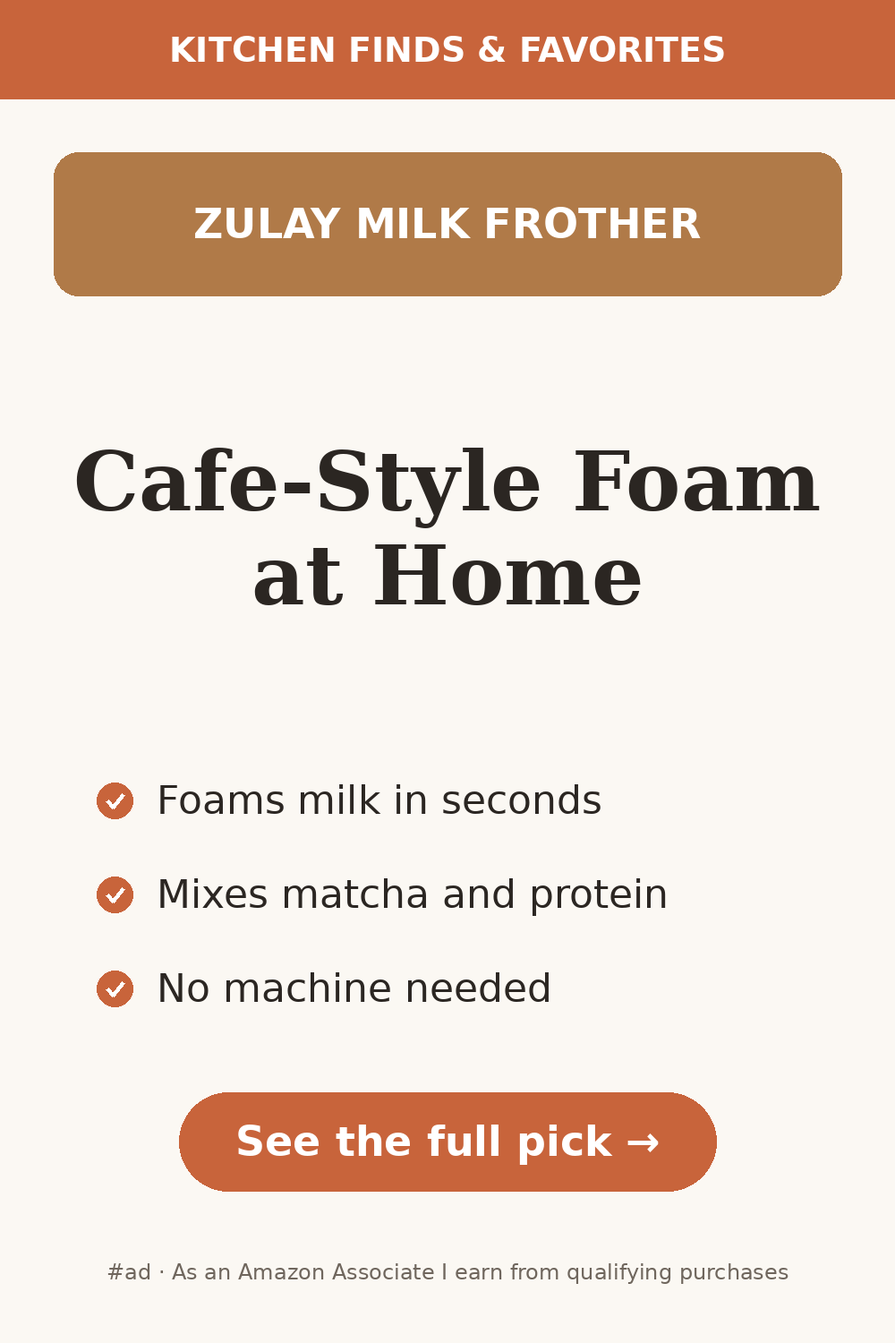
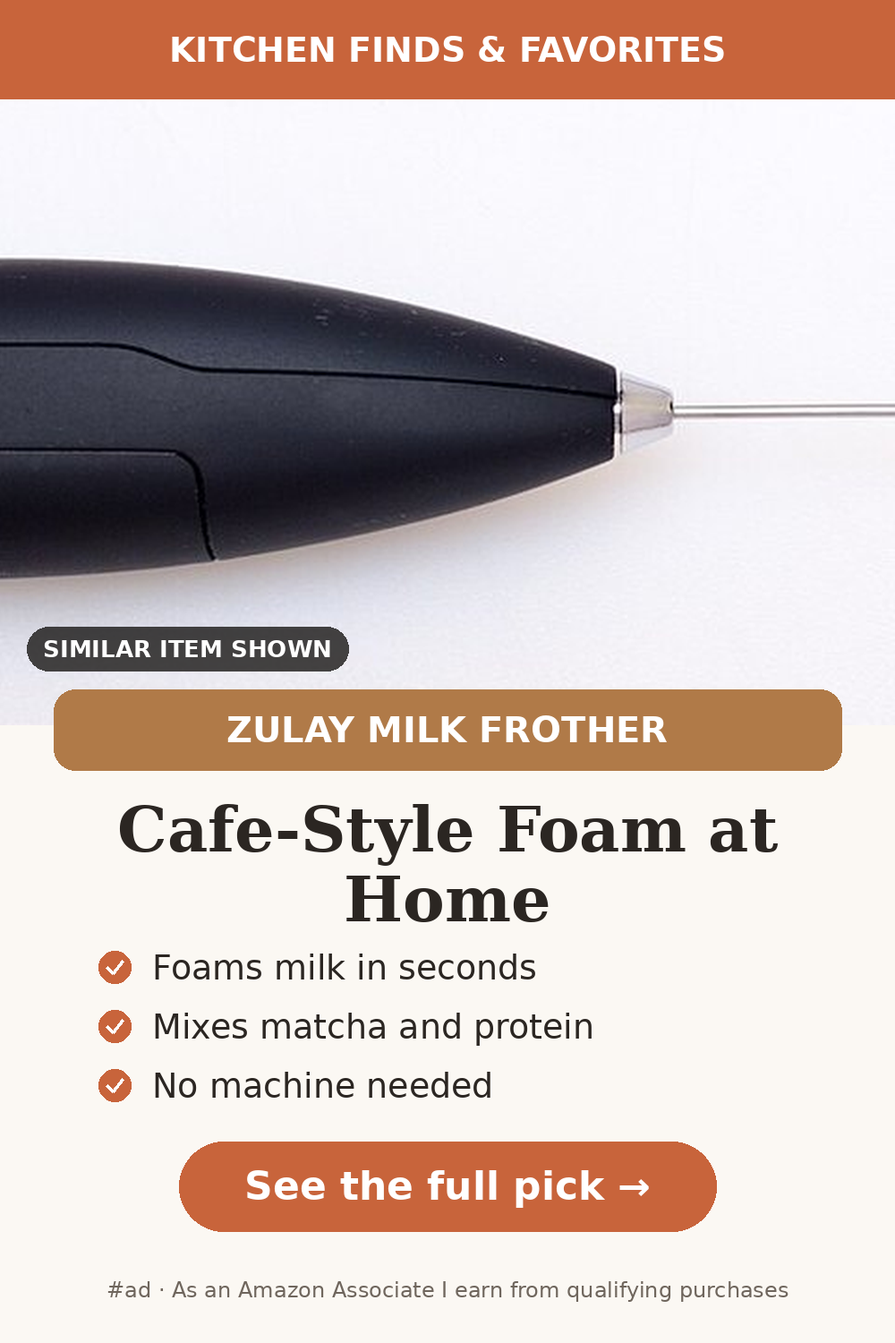
Product photos: first 5 live, plus a GitHub workflow to fetch the rest (#35)
* Fetch similar-item photos on GitHub's servers (Openverse fallback)

Photos were only fetched on Frank's PC (Pixabay key), so most products still
had none. stock_photos.py --openverse now falls back to Openverse public-
domain photos (CC0 / Public Domain Mark only; no key, no attribution needed,
credited anyway) when no Pixabay key is present, trying up to 5 candidates
per product if a download fails. New "Fetch product photos" workflow runs it
on GitHub (open internet), rebuilds, and commits the photos back; on main it
opens a PR. Captions credit the actual source and license. Knife organizers
get their own photo type instead of "kitchen knife".

Claude-Session: https://claude.ai/code/session_013Z8sgWpeXJjzgrsHKLojtB

* Add similar-item photos for products that had none

* Photos: use Wikimedia Commons public-domain images (Openverse now needs an account)

The first workflow run got HTTP 401 from Openverse, which no longer allows
anonymous API use. Switch the keyless fallback to the Wikimedia Commons API,
keeping only public-domain / CC0 JPEG photos at least 800 px wide whose title
or description names the product type, and skipping illustrations, logos,
patents and the like. Remove the empty photos.json that run committed, and
don't commit one again when nothing was found.

Claude-Session: https://claude.ai/code/session_013Z8sgWpeXJjzgrsHKLojtB

* Add similar-item photos for products that had none
[…]

diff --git a/site/public/index.html b/site/public/index.html
@@ -481,7 +481,7 @@ try{navigator.sendBeacon('/click.php',new URLSearchParams({p:location.pathname,a
       </article>
       <article class="card" id="B07SRV3SN8" data-pl="card">
         <a class="img" href="https://www.amazon.com/dp/B07SRV3SN8?tag=kitchenfi0fde-20" rel="sponsored nofollow noopener" target="_blank">
-          <picture><source srcset="img/B07SRV3SN8-sq.webp" type="image/webp"><img src="img/B07SRV3SN8-sq.png" alt="Pipishell Bamboo Expandable Silverware Drawer Organizer" loading="lazy" width="800" height="800"></picture>
+          <picture><source srcset="img/B07SRV3SN8-sq.webp" type="image/webp"><img src="img/B07SRV3SN8-sq.png" alt="Pipishell Bamboo Expandable Silverware Drawer Organizer (photo shows a similar silverware organizer, not this exact product)" loading="lazy" width="800" height="800"></picture>
         </a>
         <div class="body">
           <h3><a href="picks/pipishell-bamboo-expandable-silverware-drawer-organizer/">Pipishell Bamboo Expandable Silverware Drawer Organizer</a></h3>
@@ -492,7 +492,7 @@ try{navigator.sendBeacon('/click.php',new URLSearchParams({p:location.pathname,a
       </article>
       <article class="card" id="B08KXKVT4K" data-pl="card">
         <a class="img" href="https://www.amazon.com/dp/B08KXKVT4K?tag=kitchenfi0fde-20" rel="sponsored nofollow noopener" target="_blank">
-          <picture><source srcset="img/B08KXKVT4K-sq.webp" type="image/webp"><img src="img/B08KXKVT4K-sq.png" alt="Vtopmart 25-Piece Clear Drawer Organizer Set" loading="lazy" width="800" height="800"></picture>
+          <picture><source srcset="img/B08KXKVT4K-sq.webp" type="image/webp"><img src="img/B08KXKVT4K-sq.png" alt="Vtopmart 25-Piece Clear Drawer Organizer Set (photo shows a similar drawer organizer, not this exact product)" loading="lazy" width="800" height="800"></picture>
         </a>
         <div class="body">
           <h3><a href="picks/vtopmart-25-piece-clear-drawer-organizer-set/">Vtopmart 25-Piece Clear Drawer Organizer Set</a></h3>
@@ -651,7 +651,7 @@ try{navigator.sendBeacon('/click.php',new URLSearchParams({p:location.pathname,a
       </article>
       <article class="card" id="B082314NFL" data-pl="card">
         <a class="img" href="https://www.amazon.com/dp/B082314NFL?tag=kitchenfi0fde-20" rel="sponsored nofollow noopener" target="_blank">
-          <picture><source srcset="img/B082314NFL-sq.webp" type="image/webp"><img src="img/B082314NFL-sq.png" alt="Zulay Kitchen Handheld Milk Frother" loading="lazy" width="800" height="800"></picture>
+          <picture><source srcset="img/B082314NFL-sq.webp" type="image/webp"><img src="img/B082314NFL-sq.png" alt="Zulay Kitchen Handheld Milk Frother (photo shows a similar milk frother, not this exact product)" loading="lazy" width="800" height="800"></picture>
         </a>
         <div class="body">
           <h3><a href="picks/zulay-kitchen-handheld-milk-frother/">Zulay Kitchen Handheld Milk Frother</a></h3>
@@ -673,7 +673,7 @@ try{navigator.sendBeacon('/click.php',new URLSearchParams({p:location.pathname,a
       </article>
       <article class="card" id="B00S93EQUK" data-pl="card">
         <a class="img" href="https://www.amazon.com/dp/B00S93EQUK?tag=kitchenfi0fde-20" rel="sponsored nofollow noopener" target="_blank">
-          <picture><source srcset="img/B00S93EQUK-sq.webp" type="image/webp"><img src="img/B00S93EQUK-sq.png" alt="Alpha Grillers Instant Read Meat Thermometer" loading="lazy" width="800" height="800"></picture>
+          <picture><source srcset="img/B00S93EQUK-sq.webp" type="image/webp"><img src="img/B00S93EQUK-sq.png" alt="Alpha Grillers Instant Read Meat Thermometer (photo shows a similar thermometer, not this exact product)" loading="lazy" width="800" height="800"></picture>
         </a>
         <div class="body">
           <h3><a href="picks/alpha-grillers-instant-read-meat-thermometer/">Alpha Grillers Instant Read Meat Thermometer</a></h3>
@@ -695,7 +695,7 @@ try{navigator.sendBeacon('/click.php',new URLSearchParams({p:location.pathname,a
       </article>
       <article class="card" id="B0C3H9MJQV" data-pl="card">
         <a class="img" href="https://www.amazon.com/dp/B0C3H9MJQV?tag=kitchenfi0fde-20" rel="sponsored nofollow noopener" target="_blank">
-          <picture><source srcset="img/B0C3H9MJQV-sq.webp" type="image/webp"><img src="img/B0C3H9MJQV-sq.png" alt="HuggieGems Magnetic Spice Rack, 4-Pack" loading="lazy" width="800" height="800"></picture>
+          <picture><source srcset="img/B0C3H9MJQV-sq.webp" type="image/webp"><img src="img/B0C3H9MJQV-sq.png" alt="HuggieGems Magnetic Spice Rack, 4-Pack (photo shows a similar spice rack, not this exact product)" loading="lazy" width="800" height="800"></picture>
         </a>
         <div class="body">
           <h3><a href="picks/huggiegems-magnetic-spice-rack-4-pack/">HuggieGems Magnetic Spice Rack, 4-Pack</a></h3>

diff --git a/site/public/kitchen-gadgets/index.html b/site/public/kitchen-gadgets/index.html
@@ -346,7 +346,7 @@ try{navigator.sendBeacon('/click.php',new URLSearchParams({p:location.pathname,a
       </article>
       <article class="card" id="B082314NFL" data-pl="card">
         <a class="img" href="https://www.amazon.com/dp/B082314NFL?tag=kitchenfi0fde-20" rel="sponsored nofollow noopener" target="_blank">
-          <picture><source srcset="/img/B082314NFL-sq.webp" type="image/webp"><img src="/img/B082314NFL-sq.png" alt="Zulay Kitchen Handheld Milk Frother" loading="lazy" width="800" height="800"></picture>
+          <picture><source srcset="/img/B082314NFL-sq.webp" type="image/webp"><img src="/img/B082314NFL-sq.png" alt="Zulay Kitchen Handheld Milk Frother (photo shows a similar milk frother, not this exact product)" loading="lazy" width="800" height="800"></picture>
         </a>
         <div class="body">
           <h3><a href="/picks/zulay-kitchen-handheld-milk-frother/">Zulay Kitchen Handheld Milk Frother</a></h3>
@@ -368,7 +368,7 @@ try{navigator.sendBeacon('/click.php',new URLSearchParams({p:location.pathname,a
       </article>
       <article class="card" id="B00S93EQUK" data-pl="card">
         <a class="img" href="https://www.amazon.com/dp/B00S93EQUK?tag=kitchenfi0fde-20" rel="sponsored nofollow noopener" target="_blank">
-          <picture><source srcset="/img/B00S93EQUK-sq.webp" type="image/webp"><img src="/img/B00S93EQUK-sq.png" alt="Alpha Grillers Instant Read Meat Thermometer" loading="lazy" width="800" height="800"></picture>
+          <picture><source srcset="/img/B00S93EQUK-sq.webp" type="image/webp"><img src="/img/B00S93EQUK-sq.png" alt="Alpha Grillers Instant Read Meat Thermometer (photo shows a similar thermometer, not this exact product)" loading="lazy" width="800" height="800"></picture>
         </a>
         <div class="body">
           <h3><a href="/picks/alpha-grillers-instant-read-meat-thermometer/">Alpha Grillers Instant Read Meat Thermometer</a></h3>
@@ -390,7 +390,7 @@ try{navigator.sendBeacon('/click.php',new URLSearchParams({p:location.pathname,a
       </article>
       <article class="card" id="B0C3H9MJQV" data-pl="card">
         <a class="img" href="https://www.amazon.com/dp/B0C3H9MJQV?tag=kitchenfi0fde-20" rel="sponsored nofollow noopener" target="_blank">
-          <picture><source srcset="/img/B0C3H9MJQV-sq.webp" type="image/webp"><img src="/img/B0C3H9MJQV-sq.png" alt="HuggieGems Magnetic Spice Rack, 4-Pack" loading="lazy" width="800" height="800"></picture>
+          <picture><source srcset="/img/B0C3H9MJQV-sq.webp" type="image/webp"><img src="/img/B0C3H9MJQV-sq.png" alt="HuggieGems Magnetic Spice Rack, 4-Pack (photo shows a similar spice rack, not this exact product)" loading="lazy" width="800" height="800"></picture>
         </a>
         <div class="body">
           <h3><a href="/picks/huggiegems-magnetic-spice-rack-4-pack/">HuggieGems Magnetic Spice Rack, 4-Pack</a></h3>

diff --git a/site/public/gifts/stocking-stuffers-for-cooks/index.html b/site/public/gifts/stocking-stuffers-for-cooks/index.html
@@ -187,7 +187,7 @@ try{navigator.sendBeacon('/click.php',new URLSearchParams({p:location.pathname,a
     </section>
     <article class="pick roundup" id="B00S93EQUK" data-pl="gift">
       <a class="img" href="../../picks/alpha-grillers-instant-read-meat-thermometer/">
-        <picture><source srcset="../../img/B00S93EQUK-sq.webp" type="image/webp"><img src="../../img/B00S93EQUK-sq.png" alt="Alpha Grillers Instant Read Meat Thermometer" loading="eager" fetchpriority="high" width="800" height="800"></picture>
+        <picture><source srcset="../../img/B00S93EQUK-sq.webp" type="image/webp"><img src="../../img/B00S93EQUK-sq.png" alt="Alpha Grillers Instant Read Meat Thermometer (photo shows a similar thermometer, not this exact product)" loading="eager" fetchpriority="high" width="800" height="800"></picture>
       </a>
       <div class="info">
         <p class="award">1. Best for grillers</p>
@@ -204,7 +204,7 @@ try{navigator.sendBeacon('/click.php',new URLSearchParams({p:location.pathname,a
     </article>
     <article class="pick roundup" id="B082314NFL" data-pl="gift">
       <a class="img" href="../../picks/zulay-kitchen-handheld-milk-frother/">
-        <picture><source srcset="../../img/B082314NFL-sq.webp" type="image/webp"><img src="../../img/B082314NFL-sq.png" alt="Zulay Kitchen Handheld Milk Frother" loading="lazy" width="800" height="800"></picture>
+        <picture><source srcset="../../img/B082314NFL-sq.webp" type="image/webp"><img src="../../img/B082314NFL-sq.png" alt="Zulay Kitchen Handheld Milk Frother (photo shows a similar milk frother, not this exact product)" loading="lazy" width="800" height="800"></picture>
       </a>
       <div class="info">
         <p class="award">2. Best for coffee lovers</p>
@@ -272,7 +272,7 @@ try{navigator.sendBeacon('/click.php',new URLSearchParams({p:location.pathname,a
     </article>
     <article class="pick roundup" id="B0C3H9MJQV" data-pl="gift">
       <a class="img" href="../../picks/huggiegems-magnetic-spice-rack-4-pack/">
-        <picture><source srcset="../../img/B0C3H9MJQV-sq.webp" type="image/webp"><img src="../../img/B0C3H9MJQV-sq.png" alt="HuggieGems Magnetic Spice Rack, 4-Pack" loading="lazy" width="800" height="800"></picture>
+        <picture><source srcset="../../img/B0C3H9MJQV-sq.webp" type="image/webp"><img src="../../img/B0C3H9MJQV-sq.png" alt="HuggieGems Magnetic Spice Rack, 4-Pack (photo shows a similar spice rack, not this exact product)" loading="lazy" width="800" height="800"></picture>
       </a>
       <div class="info">
         <p class="award">6. Best for small kitchens</p>

diff --git a/site/public/picks/pipishell-bamboo-expandable-silverware-drawer-organizer/index.html b/site/public/picks/pipishell-bamboo-expandable-silverware-drawer-organizer/index.html
@@ -160,9 +160,9 @@ try{navigator.sendBeacon('/click.php',new URLSearchParams({p:location.pathname,a
     <article class="pick" id="B07SRV3SN8" data-pl="pick">
       <div class="media">
       <a class="img" href="https://www.amazon.com/dp/B07SRV3SN8?tag=kitchenfi0fde-20" rel="sponsored nofollow noopener" target="_blank">
-        <picture><source srcset="../../img/B07SRV3SN8-sq.webp" type="image/webp"><img src="../../img/B07SRV3SN8-sq.png" alt="Pipishell Bamboo Expandable Silverware Drawer Organizer" loading="eager" fetchpriority="high" width="800" height="800"></picture>
+        <picture><source srcset="../../img/B07SRV3SN8-sq.webp" type="image/webp"><img src="../../img/B07SRV3SN8-sq.png" alt="Pipishell Bamboo Expandable Silverware Drawer Organizer (photo shows a similar silverware organizer, not this exact product)" loading="eager" fetchpriority="high" width="800" height="800"></picture>
       </a>
-      
+      <p class="photo-note">Photo shows a similar silverware organizer, not this exact product. See the real product photos on Amazon. Photo: <a href="https://commons.wikimedia.org/wiki/File:Kitchen_drawer_(Unsplash).jpg" rel="nofollow noopener">Jarosław Ceborski jarson / Wikimedia Commons (CC0)</a></p>
       </div>
       <div class="info">
         <h1>Pipishell Bamboo Expandable Silverware Drawer Organizer</h1>
@@ -208,7 +208,7 @@ try{navigator.sendBeacon('/click.php',new URLSearchParams({p:location.pathname,a
       </article>
       <article class="card" id="B08KXKVT4K" data-pl="card">
         <a class="img" href="https://www.amazon.com/dp/B08KXKVT4K?tag=kitchenfi0fde-20" rel="sponsored nofollow noopener" target="_blank">
-          <picture><source srcset="../../img/B08KXKVT4K-sq.webp" type="image/webp"><img src="../../img/B08KXKVT4K-sq.png" alt="Vtopmart 25-Piece Clear Drawer Organizer Set" loading="lazy" width="800" height="800"></picture>
+          <picture><source srcset="../../img/B08KXKVT4K-sq.webp" type="image/webp"><img src="../../img/B08KXKVT4K-sq.png" alt="Vtopmart 25-Piece Clear Drawer Organizer Set (photo shows a similar drawer organizer, not this exact product)" loading="lazy" width="800" height="800"></picture>
         </a>
         <div class="body">
           <h3><a href="../../picks/vtopmart-25-piece-clear-drawer-organizer-set/">Vtopmart 25-Piece Clear Drawer Organizer Set</a></h3>

diff --git a/site/public/picks/vtopmart-25-piece-clear-drawer-organizer-set/index.html b/site/public/picks/vtopmart-25-piece-clear-drawer-organizer-set/index.html
@@ -160,9 +160,9 @@ try{navigator.sendBeacon('/click.php',new URLSearchParams({p:location.pathname,a
     <article class="pick" id="B08KXKVT4K" data-pl="pick">
       <div class="media">
       <a class="img" href="https://www.amazon.com/dp/B08KXKVT4K?tag=kitchenfi0fde-20" rel="sponsored nofollow noopener" target="_blank">
-        <picture><source srcset="../../img/B08KXKVT4K-sq.webp" type="image/webp"><img src="../../img/B08KXKVT4K-sq.png" alt="Vtopmart 25-Piece Clear Drawer Organizer Set" loading="eager" fetchpriority="high" width="800" height="800"></picture>
+        <picture><source srcset="../../img/B08KXKVT4K-sq.webp" type="image/webp"><img src="../../img/B08KXKVT4K-sq.png" alt="Vtopmart 25-Piece Clear Drawer Organizer Set (photo shows a similar drawer organizer, not this exact product)" loading="eager" fetchpriority="high" width="800" height="800"></picture>
       </a>
-      
+      <p class="photo-note">Photo shows a similar drawer organizer, not this exact product. See the real product photos on Amazon. Photo: <a href="https://commons.wikimedia.org/wiki/File:Kitchen_drawer.jpg" rel="nofollow noopener">Iamhungey / Wikimedia Commons (CC0)</a></p>
       </div>
       <div class="info">
         <h1>Vtopmart 25-Piece Clear Drawer Organizer Set</h1>
@@ -208,7 +208,7 @@ try{navigator.sendBeacon('/click.php',new URLSearchParams({p:location.pathname,a
       </article>
       <article class="card" id="B07SRV3SN8" data-pl="card">
         <a class="img" href="https://www.amazon.com/dp/B07SRV3SN8?tag=kitchenfi0fde-20" rel="sponsored nofollow noopener" target="_blank">
-          <picture><source srcset="../../img/B07SRV3SN8-sq.webp" type="image/webp"><img src="../../img/B07SRV3SN8-sq.png" alt="Pipishell Bamboo Expandable Silverware Drawer Organizer" loading="lazy" width="800" height="800"></picture>
+          <picture><source srcset="../../img/B07SRV3SN8-sq.webp" type="image/webp"><img src="../../img/B07SRV3SN8-sq.png" alt="Pipishell Bamboo Expandable Silverware Drawer Organizer (photo shows a similar silverware organizer, not this exact product)" loading="lazy" width="800" height="800"></picture>
         </a>
         <div class="body">
           <h3><a href="../../picks/pipishell-bamboo-expandable-silverware-drawer-organizer/">Pipishell Bamboo Expandable Silverware Drawer Organizer</a></h3>

diff --git a/site/public/picks/gorilla-grip-powergrip-drawer-and-shelf-liner-12-x-10/index.html b/site/public/picks/gorilla-grip-powergrip-drawer-and-shelf-liner-12-x-10/index.html
@@ -197,7 +197,7 @@ try{navigator.sendBeacon('/click.php',new URLSearchParams({p:location.pathname,a
       </article>
       <article class="card" id="B07SRV3SN8" data-pl="card">
         <a class="img" href="https://www.amazon.com/dp/B07SRV3SN8?tag=kitchenfi0fde-20" rel="sponsored nofollow noopener" target="_blank">
-          <picture><source srcset="../../img/B07SRV3SN8-sq.webp" type="image/webp"><img src="../../img/B07SRV3SN8-sq.png" alt="Pipishell Bamboo Expandable Silverware Drawer Organizer" loading="lazy" width="800" height="800"></picture>
+          <picture><source srcset="../../img/B07SRV3SN8-sq.webp" type="image/webp"><img src="../../img/B07SRV3SN8-sq.png" alt="Pipishell Bamboo Expandable Silverware Drawer Organizer (photo shows a similar silverware organizer, not this exact product)" loading="lazy" width="800" height="800"></picture>
         </a>
         <div class="body">
           <h3><a href="../../picks/pipishell-bamboo-expandable-silverware-drawer-organizer/">Pipishell Bamboo Expandable Silverware Drawer Organizer</a></h3>
@@ -208,7 +208,7 @@ try{navigator.sendBeacon('/click.php',new URLSearchParams({p:location.pathname,a
       </article>
       <article class="card" id="B08KXKVT4K" data-pl="card">
         <a class="img" href="https://www.amazon.com/dp/B08KXKVT4K?tag=kitchenfi0fde-20" rel="sponsored nofollow noopener" target="_blank">
-          <picture><source srcset="../../img/B08KXKVT4K-sq.webp" type="image/webp"><img src="../../img/B08KXKVT4K-sq.png" alt="Vtopmart 25-Piece Clear Drawer Organizer Set" loading="lazy" width="800" height="800"></picture>
+          <picture><source srcset="../../img/B08KXKVT4K-sq.webp" type="image/webp"><img src="../../img/B08KXKVT4K-sq.png" alt="Vtopmart 25-Piece Clear Drawer Organizer Set (photo shows a similar drawer organizer, not this exact product)" loading="lazy" width="800" height="800"></picture>
         </a>
         <div class="body">
           <h3><a href="../../picks/vtopmart-25-piece-clear-drawer-organizer-set/">Vtopmart 25-Piece Clear Drawer Organizer Set</a></h3>

diff --git a/site/public/picks/vaefae-bamboo-in-drawer-knife-organizer/index.html b/site/public/picks/vaefae-bamboo-in-drawer-knife-organizer/index.html
@@ -197,7 +197,7 @@ try{navigator.sendBeacon('/click.php',new URLSearchParams({p:location.pathname,a
       </article>
       <article class="card" id="B07SRV3SN8" data-pl="card">
         <a class="img" href="https://www.amazon.com/dp/B07SRV3SN8?tag=kitchenfi0fde-20" rel="sponsored nofollow noopener" target="_blank">
-          <picture><source srcset="../../img/B07SRV3SN8-sq.webp" type="image/webp"><img src="../../img/B07SRV3SN8-sq.png" alt="Pipishell Bamboo Expandable Silverware Drawer Organizer" loading="lazy" width="800" height="800"></picture>
+          <picture><source srcset="../../img/B07SRV3SN8-sq.webp" type="image/webp"><img src="../../img/B07SRV3SN8-sq.png" alt="Pipishell Bamboo Expandable Silverware Drawer Organizer (photo shows a similar silverware organizer, not this exact product)" loading="lazy" width="800" height="800"></picture>
         </a>
         <div class="body">
           <h3><a href="../../picks/pipishell-bamboo-expandable-silverware-drawer-organizer/">Pipishell Bamboo Expandable Silverware Drawer Organizer</a></h3>
@@ -208,7 +208,7 @@ try{navigator.sendBeacon('/click.php',new URLSearchParams({p:location.pathname,a
       </article>
       <article class="card" id="B08KXKVT4K" data-pl="card">
         <a class="img" href="https://www.amazon.com/dp/B08KXKVT4K?tag=kitchenfi0fde-20" rel="sponsored nofollow noopener" target="_blank">
-          <picture><source srcset="../../img/B08KXKVT4K-sq.webp" type="image/webp"><img src="../../img/B08KXKVT4K-sq.png" alt="Vtopmart 25-Piece Clear Drawer Organizer Set" loading="lazy" width="800" height="800"></picture>
+          <picture><source srcset="../../img/B08KXKVT4K-sq.webp" type="image/webp"><img src="../../img/B08KXKVT4K-sq.png" alt="Vtopmart 25-Piece Clear Drawer Organizer Set (photo shows a similar drawer organizer, not this exact product)" loading="lazy" width="800" height="800"></picture>
         </a>
         <div class="body">
           <h3><a href="../../picks/vtopmart-25-piece-clear-drawer-organizer-set/">Vtopmart 25-Piece Clear Drawer Organizer Set</a></h3>

diff --git a/site/public/kitchen-organization/index.html b/site/public/kitchen-organization/index.html
@@ -404,7 +404,7 @@ try{navigator.sendBeacon('/click.php',new URLSearchParams({p:location.pathname,a
       </article>
       <article class="card" id="B07SRV3SN8" data-pl="card">
         <a class="img" href="https://www.amazon.com/dp/B07SRV3SN8?tag=kitchenfi0fde-20" rel="sponsored nofollow noopener" target="_blank">
-          <picture><source srcset="/img/B07SRV3SN8-sq.webp" type="image/webp"><img src="/img/B07SRV3SN8-sq.png" alt="Pipishell Bamboo Expandable Silverware Drawer Organizer" loading="lazy" width="800" height="800"></picture>
+          <picture><source srcset="/img/B07SRV3SN8-sq.webp" type="image/webp"><img src="/img/B07SRV3SN8-sq.png" alt="Pipishell Bamboo Expandable Silverware Drawer Organizer (photo shows a similar silverware organizer, not this exact product)" loading="lazy" width="800" height="800"></picture>
         </a>
         <div class="body">
           <h3><a href="/picks/pipishell-bamboo-expandable-silverware-drawer-organizer/">Pipishell Bamboo Expandable Silverware Drawer Organizer</a></h3>
@@ -415,7 +415,7 @@ try{navigator.sendBeacon('/click.php',new URLSearchParams({p:location.pathname,a
       </article>
       <article class="card" id="B08KXKVT4K" data-pl="card">
         <a class="img" href="https://www.amazon.com/dp/B08KXKVT4K?tag=kitchenfi0fde-20" rel="sponsored nofollow noopener" target="_blank">
-          <picture><source srcset="/img/B08KXKVT4K-sq.webp" type="image/webp"><img src="/img/B08KXKVT4K-sq.png" alt="Vtopmart 25-Piece Clear Drawer Organizer Set" loading="lazy" width="800" height="800"></picture>
+          <picture><source srcset="/img/B08KXKVT4K-sq.webp" type="image/webp"><img src="/img/B08KXKVT4K-sq.png" alt="Vtopmart 25-Piece Clear Drawer Organizer Set (photo shows a similar drawer organizer, not this exact product)" loading="lazy" width="800" height="800"></picture>
         </a>
         <div class="body">
           <h3><a href="/picks/vtopmart-25-piece-clear-drawer-organizer-set/">Vtopmart 25-Piece Clear Drawer Organizer Set</a></h3>

diff --git a/site/public/guides/drawer-organizers/index.html b/site/public/guides/drawer-organizers/index.html
@@ -221,7 +221,7 @@ try{navigator.sendBeacon('/click.php',new URLSearchParams({p:location.pathname,a
     </section>
     <article class="pick roundup" id="B07SRV3SN8" data-pl="roundup">
       <a class="img" href="../../picks/pipishell-bamboo-expandable-silverware-drawer-organizer/">
-        <picture><source srcset="../../img/B07SRV3SN8-sq.webp" type="image/webp"><img src="../../img/B07SRV3SN8-sq.png" alt="Pipishell Bamboo Expandable Silverware Drawer Organizer" loading="eager" fetchpriority="high" width="800" height="800"></picture>
+        <picture><source srcset="../../img/B07SRV3SN8-sq.webp" type="image/webp"><img src="../../img/B07SRV3SN8-sq.png" alt="Pipishell Bamboo Expandable Silverware Drawer Organizer (photo shows a similar silverware organizer, not this exact product)" loading="eager" fetchpriority="high" width="800" height="800"></picture>
       </a>
       <div class="info">
         <p class="award">1. Best for utensils</p>
@@ -237,7 +237,7 @@ try{navigator.sendBeacon('/click.php',new URLSearchParams({p:location.pathname,a
     </article>
     <article class="pick roundup" id="B08KXKVT4K" data-pl="roundup">
       <a class="img" href="../../picks/vtopmart-25-piece-clear-drawer-organizer-set/">
-        <picture><source srcset="../../img/B08KXKVT4K-sq.webp" type="image/webp"><img src="../../img/B08KXKVT4K-sq.png" alt="Vtopmart 25-Piece Clear Drawer Organizer Set" loading="lazy" width="800" height="800"></picture>
+        <picture><source srcset="../../img/B08KXKVT4K-sq.webp" type="image/webp"><img src="../../img/B08KXKVT4K-sq.png" alt="Vtopmart 25-Piece Clear Drawer Organizer Set (photo shows a similar drawer organizer, not this exact product)" loading="lazy" width="800" height="800"></picture>
       </a>
       <div class="info">
         <p class="award">2. Best for junk drawers</p>

diff --git a/site/public/picks/alpha-grillers-instant-read-meat-thermometer/index.html b/site/public/picks/alpha-grillers-instant-read-meat-thermometer/index.html
@@ -160,9 +160,9 @@ try{navigator.sendBeacon('/click.php',new URLSearchParams({p:location.pathname,a
     <article class="pick" id="B00S93EQUK" data-pl="pick">
       <div class="media">
       <a class="img" href="https://www.amazon.com/dp/B00S93EQUK?tag=kitchenfi0fde-20" rel="sponsored nofollow noopener" target="_blank">
-        <picture><source srcset="../../img/B00S93EQUK-sq.webp" type="image/webp"><img src="../../img/B00S93EQUK-sq.png" alt="Alpha Grillers Instant Read Meat Thermometer" loading="eager" fetchpriority="high" width="800" height="800"></picture>
+        <picture><source srcset="../../img/B00S93EQUK-sq.webp" type="image/webp"><img src="../../img/B00S93EQUK-sq.png" alt="Alpha Grillers Instant Read Meat Thermometer (photo shows a similar thermometer, not this exact product)" loading="eager" fetchpriority="high" width="800" height="800"></picture>
       </a>
-      
+      <p class="photo-note">Photo shows a similar thermometer, not this exact product. See the real product photos on Amazon. Photo: <a href="https://commons.wikimedia.org/wiki/File:11.09.11_Turkey_top_questions_blog_-_Flickr_-_USDAgov.jpg" rel="nofollow noopener">U.S. Department of Agriculture / Wikimedia Commons (Public domain)</a></p>
       </div>
       <div class="info">
         <h1>Alpha Grillers Instant Read Meat Thermometer</h1>

diff --git a/site/public/picks/huggiegems-magnetic-spice-rack-4-pack/index.html b/site/public/picks/huggiegems-magnetic-spice-rack-4-pack/index.html
@@ -160,9 +160,9 @@ try{navigator.sendBeacon('/click.php',new URLSearchParams({p:location.pathname,a
     <article class="pick" id="B0C3H9MJQV" data-pl="pick">
       <div class="media">
       <a class="img" href="https://www.amazon.com/dp/B0C3H9MJQV?tag=kitchenfi0fde-20" rel="sponsored nofollow noopener" target="_blank">
-        <picture><source srcset="../../img/B0C3H9MJQV-sq.webp" type="image/webp"><img src="../../img/B0C3H9MJQV-sq.png" alt="HuggieGems Magnetic Spice Rack, 4-Pack" loading="eager" fetchpriority="high" width="800" height="800"></picture>
+        <picture><source srcset="../../img/B0C3H9MJQV-sq.webp" type="image/webp"><img src="../../img/B0C3H9MJQV-sq.png" alt="HuggieGems Magnetic Spice Rack, 4-Pack (photo shows a similar spice rack, not this exact product)" loading="eager" fetchpriority="high" width="800" height="800"></picture>
       </a>
-      
+      <p class="photo-note">Photo shows a similar spice rack, not this exact product. See the real product photos on Amazon. Photo: <a href="https://commons.wikimedia.org/wiki/File:Spice_rack_with_letter_labels.jpg" rel="nofollow noopener">StoppedTime / Wikimedia Commons (CC0)</a></p>
       </div>
       <div class="info">
         <h1>HuggieGems Magnetic Spice Rack, 4-Pack</h1>

diff --git a/site/public/picks/zulay-kitchen-handheld-milk-frother/index.html b/site/public/picks/zulay-kitchen-handheld-milk-frother/index.html
@@ -160,9 +160,9 @@ try{navigator.sendBeacon('/click.php',new URLSearchParams({p:location.pathname,a
     <article class="pick" id="B082314NFL" data-pl="pick">
       <div class="media">
       <a class="img" href="https://www.amazon.com/dp/B082314NFL?tag=kitchenfi0fde-20" rel="sponsored nofollow noopener" target="_blank">
-        <picture><source srcset="../../img/B082314NFL-sq.webp" type="image/webp"><img src="../../img/B082314NFL-sq.png" alt="Zulay Kitchen Handheld Milk Frother" loading="eager" fetchpriority="high" width="800" height="800"></picture>
+        <picture><source srcset="../../img/B082314NFL-sq.webp" type="image/webp"><img src="../../img/B082314NFL-sq.png" alt="Zulay Kitchen Handheld Milk Frother (photo shows a similar milk frother, not this exact product)" loading="eager" fetchpriority="high" width="800" height="800"></picture>
       </a>
-      
+      <p class="photo-note">Photo shows a similar milk frother, not this exact product. See the real product photos on Amazon. Photo: <a href="https://commons.wikimedia.org/wiki/File:Milk_frother_wand_battery_powered.jpg" rel="nofollow noopener">Ll1324 / Wikimedia Commons (CC0)</a></p>
       </div>
       <div class="info">
         <h1>Zulay Kitchen Handheld Milk Frother</h1>
